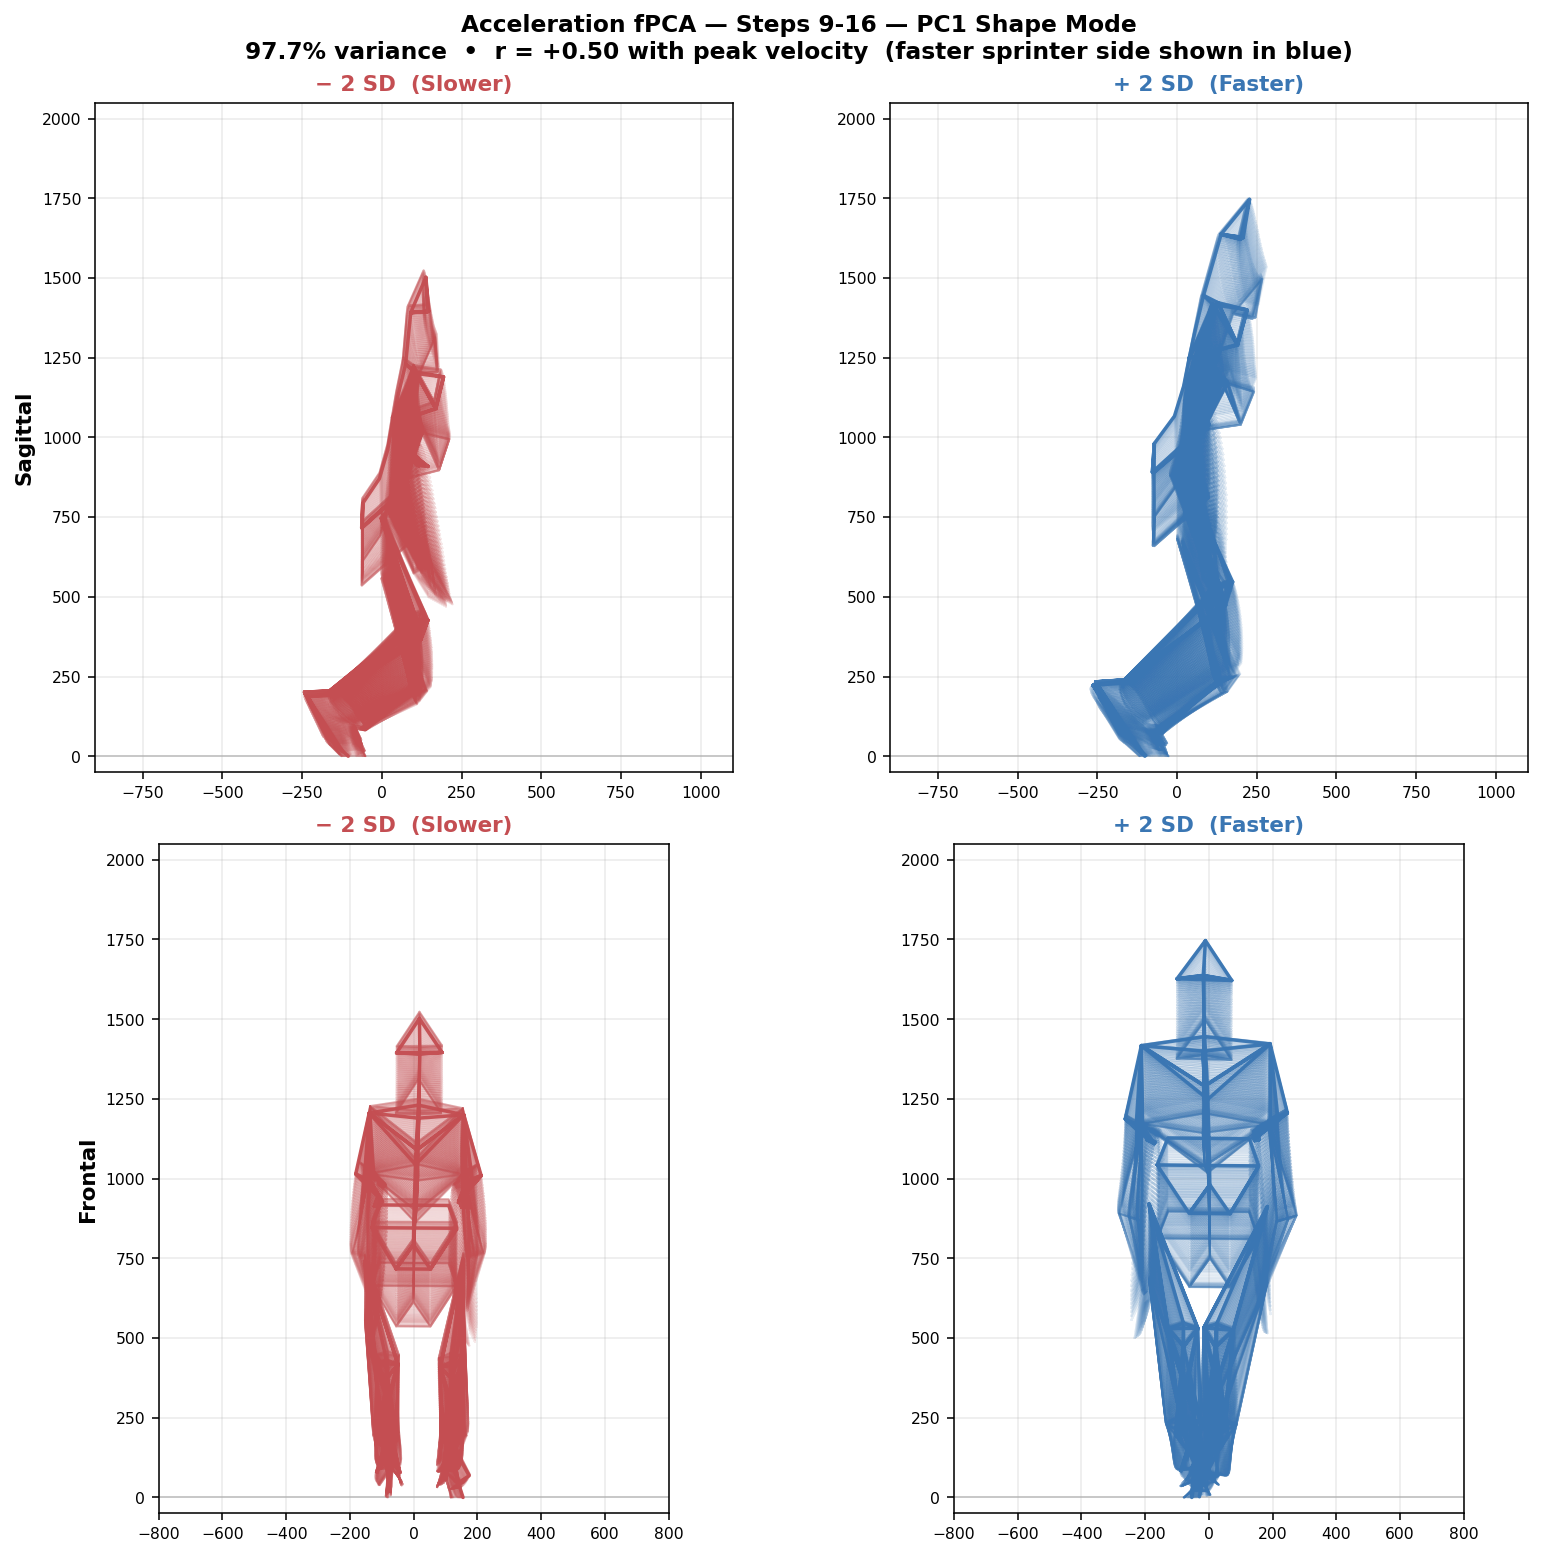
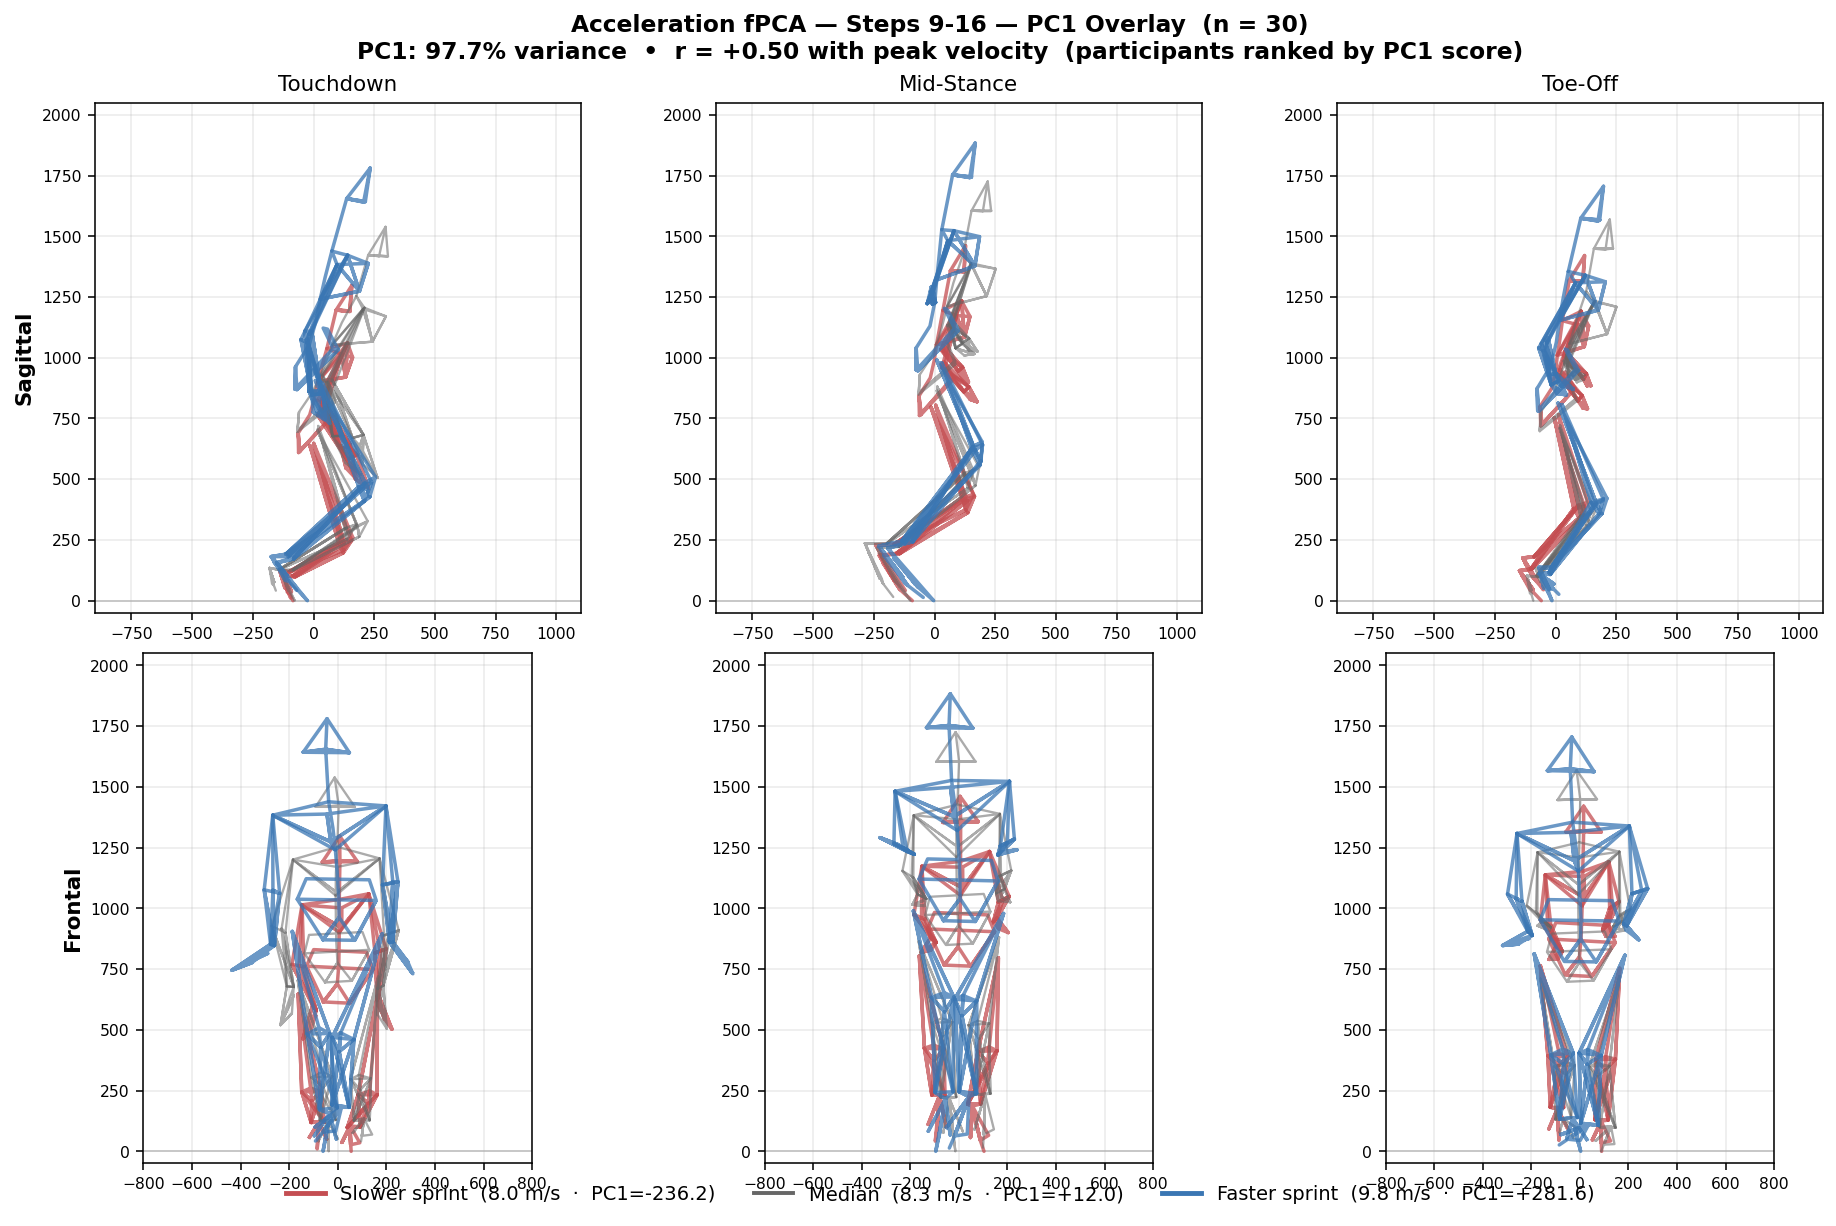
Replace PC1 shape-mode figures with PC1 skeleton overlay
Swap the ±2 SD motion-envelope PC1 figures for the same 2×3 skeleton
overlay format used by the velocity-ranked cohort figures (Sagittal /
Frontal × Touchdown / Mid-Stance / Toe-Off, red / grey / blue).
Participants are now ranked by their PC1 score; the sign of the
PC1–velocity correlation determines which end of the score axis is
'faster'.  Updates notebook cell 18 and README accordingly.

diff --git a/README.md b/README.md
@@ -214,14 +214,14 @@ Running fPCA **separately for early acceleration (Steps 3-8) and late accelerati
 #### Steps 9-16 — All Participants
 ![Accel fPCA Steps 9-16 All](outputs/figures/accel_fpca_steps_9-16_all.png)
 
-#### PC1 Shape Mode — Always Shown
+#### PC1 Overlay — Always Shown
 
-PC1 captures the dominant variance in each step range — **94.0%** for Steps 3-8 and **97.7%** for Steps 9-16. Even where PC1 is not the *strongest* velocity-correlated component (see Steps 3-8 above), it is the largest source of inter-athlete kinematic variation and worth visualising directly. The ±2 SD reconstructions below show the full 101-frame stride as a motion envelope, with the bold skeleton at mid-stance for reference.
+PC1 captures the dominant variance in each step range — **94.0%** for Steps 3-8 and **97.7%** for Steps 9-16. To show what PC1 means kinematically, participants are ranked by their PC1 score (the sign of the PC1–velocity correlation determines which end is "faster"), and the three representative skeletons — low / median / high PC1 score — are overlaid at Touchdown, Mid-Stance, and Toe-Off using the same red / grey / blue convention as the velocity-ranked figures above.
 
-##### Steps 3-8 — PC1 (94.0% var, r = +0.41 with peak velocity)
+##### Steps 3-8 — PC1 Overlay (94.0% var, r = +0.41 with peak velocity)
 ![Accel fPCA Steps 3-8 PC1](outputs/figures/accel_fpca_steps_3-8_PC1.png)
 
-##### Steps 9-16 — PC1 (97.7% var, r = +0.50 with peak velocity)
+##### Steps 9-16 — PC1 Overlay (97.7% var, r = +0.50 with peak velocity)
 ![Accel fPCA Steps 9-16 PC1](outputs/figures/accel_fpca_steps_9-16_PC1.png)
 
 Male-only and female-only variants of each step range, plus per-range scree + correlation plots, are saved as:
